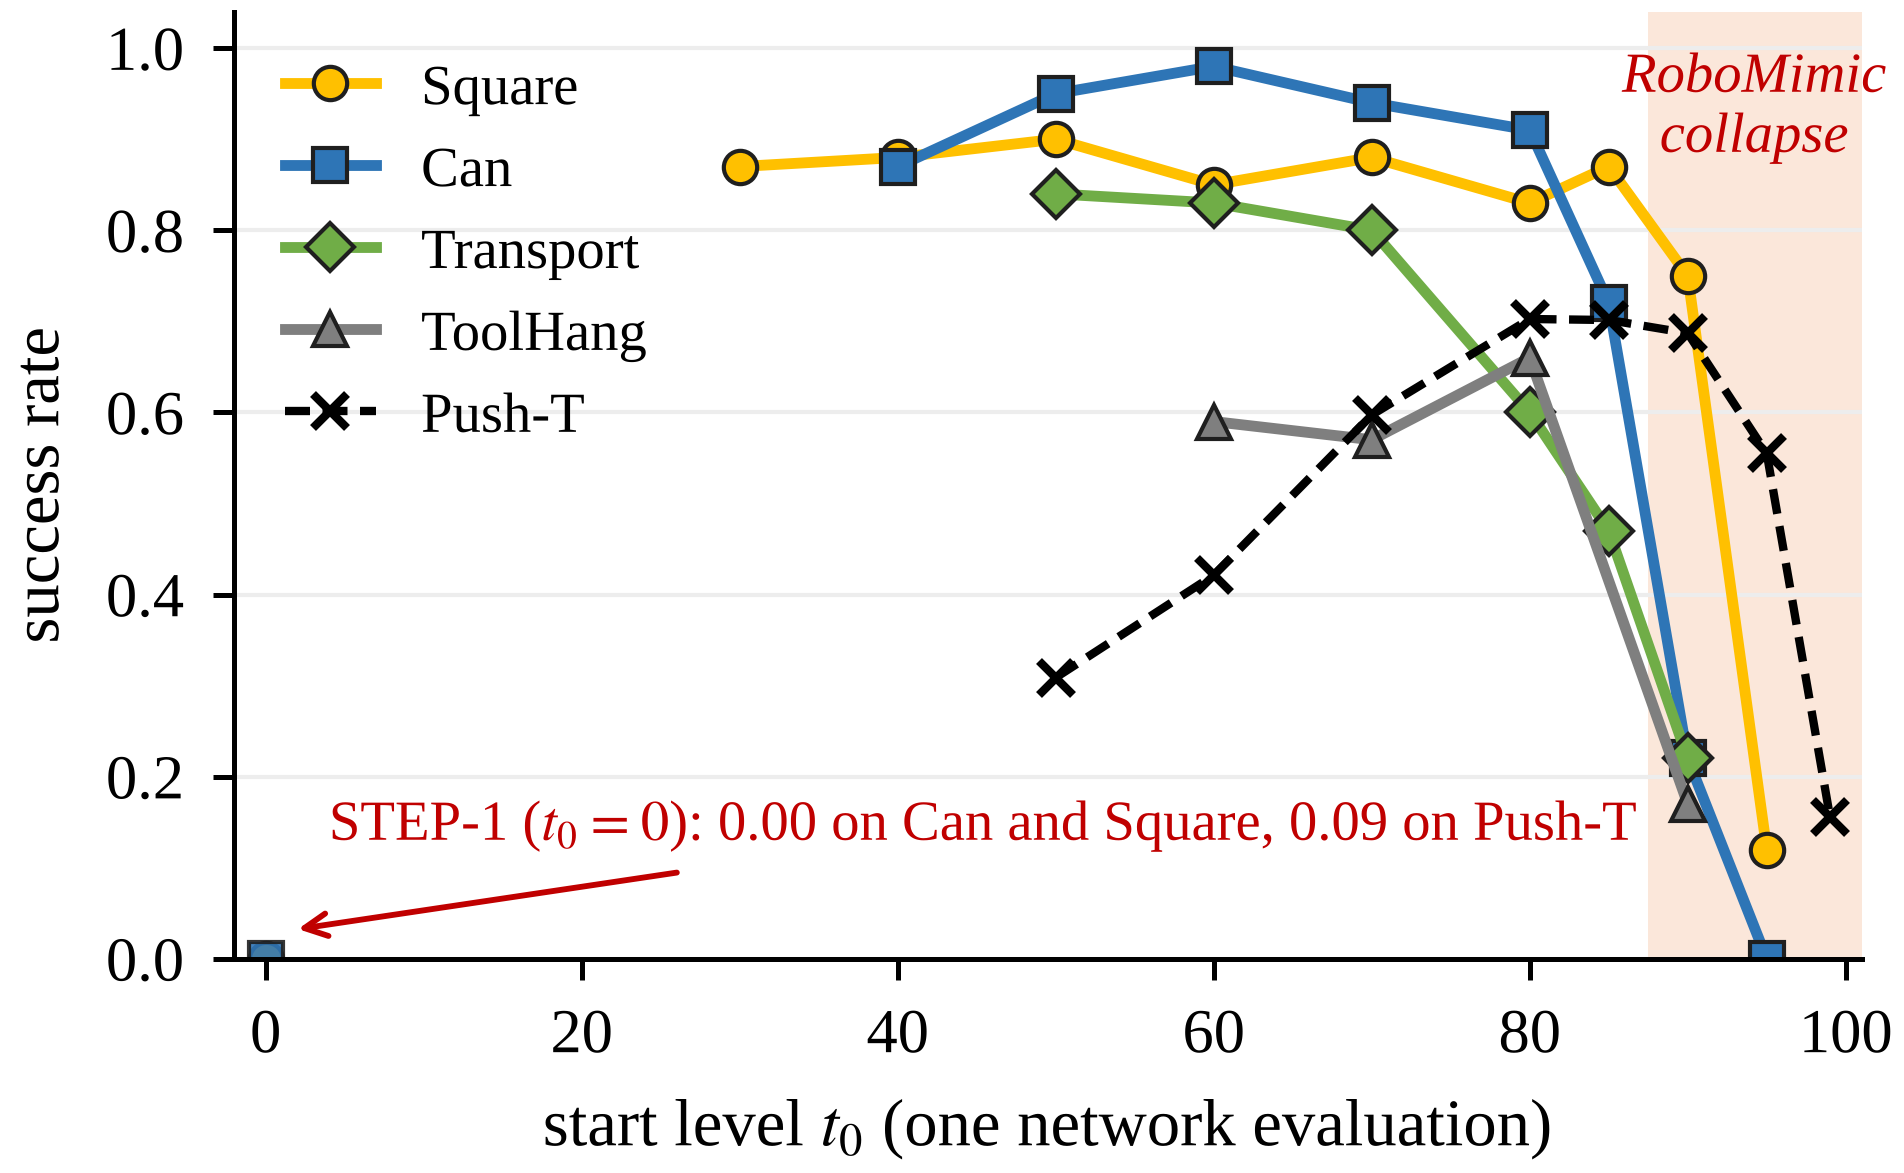
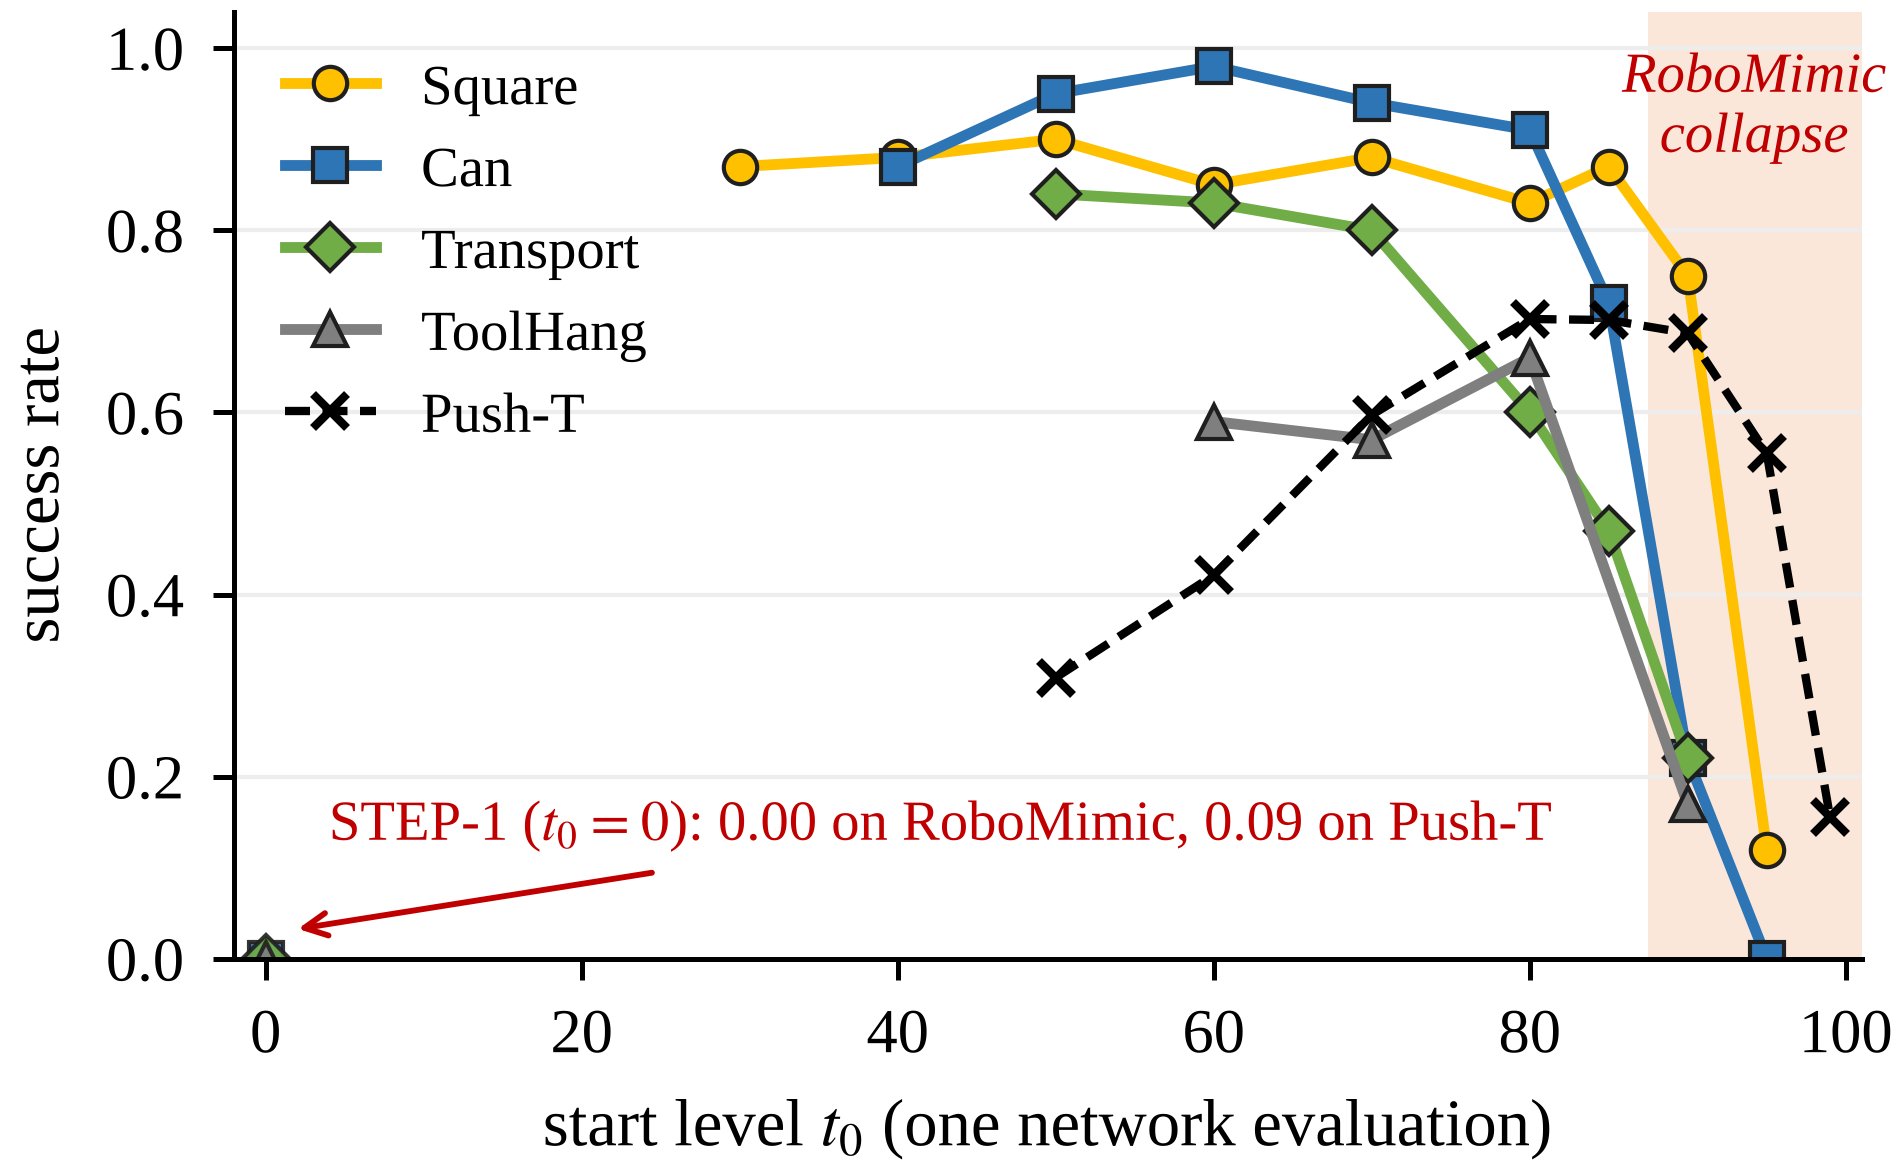
Fill DDIM-1/STEP-1 on Transport and ToolHang (0.00, author-measured)

diff --git a/paper_plotting/rm_sweep_figure.py b/paper_plotting/rm_sweep_figure.py
@@ -23,8 +23,7 @@ def main():
         pts = sorted((int(k.split(':')[0]), v['score']) for k, v in d[key].items() if k.endswith(':1'))
         x, y = zip(*pts)
         ax.plot(x, y, color=col, marker=mk, lw=1.3, ms=4, mec=EDGE, mew=0.5, label=lab)
-        if key in ('square', 'can'):  # STEP-1 / DDIM-1 were run on these two only
-            ax.plot([0], [0], color=col, marker=mk, ms=4, mec=EDGE, mew=0.5, ls='none', alpha=0.9)
+        ax.plot([0], [0], color=col, marker=mk, ms=4, mec=EDGE, mew=0.5, ls='none', alpha=0.9)
     if a.pusht:
         import pandas as pd
         r = pd.read_csv(a.pusht)
@@ -32,7 +31,7 @@ def main():
         pts = sorted({int(t): s for t, s in zip(r.t0, r.success_mean)}.items())
         x, y = zip(*pts)
         ax.plot(x, y, color=INK, ls=(0, (3, 1.5)), marker='x', lw=1.0, ms=4, label='Push-T')
-    ax.annotate('STEP-1 ($t_0{=}0$): 0.00 on Can and Square, 0.09 on Push-T', xy=(1.0, 0.03), xytext=(4, 0.13), fontsize=6.8, color=RED,
+    ax.annotate('STEP-1 ($t_0{=}0$): 0.00 on RoboMimic, 0.09 on Push-T', xy=(1.0, 0.03), xytext=(4, 0.13), fontsize=6.8, color=RED,
                 arrowprops=dict(arrowstyle='->', color=RED, lw=0.7))
     ax.axvspan(87.5, 101, color='#F8CBAD', alpha=0.45, lw=0, zorder=0)
     ax.text(94.2, 1.0, 'RoboMimic\ncollapse', ha='center', va='top', fontsize=6.8, color=RED, style='italic')

diff --git a/README.md b/README.md
@@ -47,7 +47,7 @@ frozen Diffusion Policy**. Only the start of the denoising process differs.
 - **Why it works.** A two-term error bound, start mismatch plus solver error, has an interior minimum `t0*`. Both terms
   can be measured **offline**, without rollouts.
 - **Results.** With 1 NFE, HiStart reaches 0.66–0.98 on RoboMimic Can, Square, Transport and ToolHang (official DP
-  checkpoints). On Can and Square, STEP-1 and DDIM-1 reach 0. It also runs 57× faster than 100-step DDPM.
+  checkpoints), while STEP-1 and DDIM-1 reach 0. It also runs 57× faster than 100-step DDPM.
 
 ---
 
@@ -92,8 +92,8 @@ entry in each budget is in **bold**. † marks numbers reported by the STEP pape
 | Can (img) | .00 | .00 | **.81** | .39 | **.99** | **.99** | – | – | – |
 | Square | .00 | .00 | **.74** | .72 | .92 | **.94** | .90 | **.94** | .92 |
 | Square (img) | .00 | .00 | **.83** | .62 | .93 | **.94** | – | – | – |
-| Transport | – | – | .26 | .13 | **.86** | .85 | .80 | .82 | **.85** |
-| ToolHang | – | – | .14 | .05 | **.62** | .51 | **.57** | .55 | .47 |
+| Transport | .00 | .00 | **.26** | .13 | **.86** | .85 | .80 | .82 | **.85** |
+| ToolHang | .00 | .00 | **.14** | .05 | **.62** | .51 | **.57** | .55 | .47 |
 
 ### One step on RoboMimic with the official DP checkpoints
 
@@ -112,7 +112,7 @@ These runs use low-dim observations, PH data and absolute actions. The predictor
 recipe, and each closed-loop number is 2 seeds × 50 episodes.
 
 Success is **flat over a wide range of start levels** and **collapses near the top** (`t0 ≥ 90`). Starting at
-`t0 = 0`, which is STEP-1, fails on Can and Square; we did not run STEP-1 on Transport and ToolHang. With a per-task start level, a single network evaluation is enough
+`t0 = 0`, which is STEP-1, fails on every task. With a per-task start level, a single network evaluation is enough
 on all four RoboMimic tasks.
 
 <p align="center">
